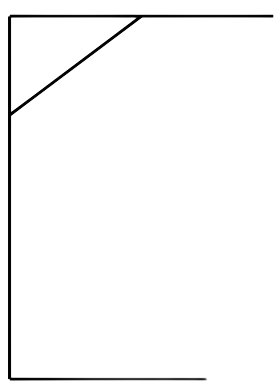
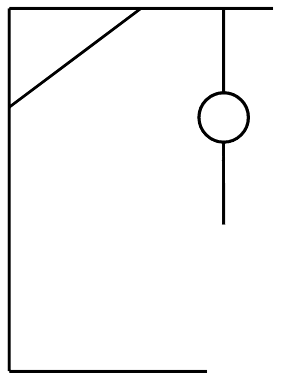
hang man display on error

Changed region(s): [[0.0, 0.0, 0.9749, 0.9816]]

diff --git a/bin/css/applicationLight16.css b/bin/css/applicationLight16.css
@@ -1,0 +1,15 @@
+Label{
+	-fx-font-size : 16px
+}
+GridPane{
+	-fx-background-color : #E8F9FD
+}
+VBox{
+	-fx-background-color : #E8F9FD
+}
+DialogPane{
+	-fx-background-color : #E8F9FD
+}
+Button{
+	-fx-background-color : #99CCFF
+}

diff --git a/src/mvc/controleur/ControleurIntro.java b/src/mvc/controleur/ControleurIntro.java
@@ -65,16 +65,12 @@ public class ControleurIntro {
 		ControleurJeu contJeu = new ControleurJeu(jeu, option);
 		loader.setController(contJeu);
 
-		try {
-			VBox jeu = loader.load();
-			jeu.getChildren().add(0, toolbar.load());
-			Stage stage = (Stage) ((Node) event.getSource()).getScene().getWindow();
-			Scene scene = new Scene(jeu);
-			stage.setScene(scene);
-			scene.getStylesheets().add(getClass().getResource("/css/applicationLight16.css").toExternalForm());
-		} catch (IOException e) {
-			System.err.println(e.getMessage());
-		}
+		VBox jeu = loader.load();
+		jeu.getChildren().add(0, toolbar.load());
+		Stage stage = (Stage) ((Node) event.getSource()).getScene().getWindow();
+		Scene scene = new Scene(jeu);
+		stage.setScene(scene);
+		scene.getStylesheets().add(getClass().getResource("/css/applicationLight16.css").toExternalForm());
 	}
 
 	@FXML
@@ -82,7 +78,7 @@ public class ControleurIntro {
 		Dialog<ButtonType> dialog = new Dialog<>();
 
 		dialog.setTitle("Choix");
-		dialog.setHeaderText("Param�tres");
+		dialog.setHeaderText("Parametres");
 		FXMLLoader loader = new FXMLLoader(getClass().getResource("/mvc/vue/parametres.fxml"));
 
 		ControleurParametres contParametres = new ControleurParametres(jeu, option);
@@ -90,10 +86,11 @@ public class ControleurIntro {
 
 		GridPane grille = loader.load();
 		dialog.getDialogPane().setContent(grille);
-		dialog.getDialogPane().getStylesheets().add(getClass().getResource("/css/applicationLight16.css").toExternalForm());
-	
+		dialog.getDialogPane().getStylesheets()
+				.add(getClass().getResource("/css/applicationLight16.css").toExternalForm());
+
 		ButtonType buttonTypeValider = new ButtonType("Valider", ButtonData.LEFT);
-		ButtonType buttonTypeRes = new ButtonType("Restaurer valeurs\npar d�faut", ButtonData.LEFT);
+		ButtonType buttonTypeRes = new ButtonType("Restaurer valeurs\npar defaut", ButtonData.LEFT);
 		ButtonType buttonTypeAnnuler = new ButtonType("Annuler", ButtonData.CANCEL_CLOSE);
 
 		dialog.getDialogPane().getButtonTypes().addAll(buttonTypeValider, buttonTypeRes, buttonTypeAnnuler);
@@ -120,17 +117,18 @@ public class ControleurIntro {
 	}
 
 	public void ouvrirAide() {
-		String info = "R�gles :\n\n"
-				+ "Pour gagner, le joueur doit trouver le mot cach� en proposant diff�rentes lettres.\n"
+		String info = "Regles :\n\n"
+				+ "Pour gagner, le joueur doit trouver le mot cache en proposant differentes lettres.\n"
 				+ "Si le joueur se trompe plus de 5 fois alors, la partie est perdue." + "\n\nAide au jeu :\n\n"
-				+ "Pour s�lectionner une lettre, cliquez avec le clique gauche de votre souris sur les lettres du clavier visuel.\n"
-				+ "Vous pouvez �galement taper avec le clavier pour s�lectionner les lettres du clavier virtuel"
+				+ "Pour selectionner une lettre, cliquez avec le clique gauche de votre souris sur les lettres du clavier visuel.\n"
+				+ "Vous pouvez egalement taper avec le clavier pour selectionner les lettres du clavier virtuel"
 				+ "\n\nSupport :\n\n" + "Tel : 06 42 86 57 38\n" + "e-mail : Antoine.scanu1@gmail.com";
 
 		Alert aide = new Alert(AlertType.INFORMATION);
-		aide.setHeaderText("R�gles");
+		aide.setHeaderText("Regles");
 		aide.setContentText(info);
-		aide.getDialogPane().getStylesheets().add(getClass().getResource("/css/applicationLight16.css").toExternalForm());
+		aide.getDialogPane().getStylesheets()
+				.add(getClass().getResource("/css/applicationLight16.css").toExternalForm());
 		aide.setHeight(900);
 		aide.show();
 	}
@@ -144,7 +142,7 @@ public class ControleurIntro {
 		Dialog<ButtonType> dialog = new Dialog<>();
 
 		dialog.setTitle("Choix");
-		dialog.setHeaderText("Pr�f�rences");
+		dialog.setHeaderText("Preferences");
 		FXMLLoader loader = new FXMLLoader(getClass().getResource("/mvc/vue/preferences.fxml"));
 
 		ControleurPreferences contPreferences = new ControleurPreferences(jeu, option);
@@ -152,10 +150,11 @@ public class ControleurIntro {
 
 		GridPane grille = loader.load();
 		dialog.getDialogPane().setContent(grille);
-		dialog.getDialogPane().getStylesheets().add(getClass().getResource("/css/applicationLight16.css").toExternalForm());
+		dialog.getDialogPane().getStylesheets()
+				.add(getClass().getResource("/css/applicationLight16.css").toExternalForm());
 
 		ButtonType buttonTypeValider = new ButtonType("Valider", ButtonData.LEFT);
-		ButtonType buttonTypeRes = new ButtonType("Restaurer valeurs\npar d�faut", ButtonData.LEFT);
+		ButtonType buttonTypeRes = new ButtonType("Restaurer valeurs\npar defaut", ButtonData.LEFT);
 		ButtonType buttonTypeAnnuler = new ButtonType("Annuler", ButtonData.CANCEL_CLOSE);
 
 		dialog.getDialogPane().getButtonTypes().addAll(buttonTypeValider, buttonTypeRes, buttonTypeAnnuler);

diff --git a/src/mvc/controleur/ControleurParametres.java b/src/mvc/controleur/ControleurParametres.java
@@ -33,7 +33,7 @@ public class ControleurParametres {
 		radioBtnCinq.setToggleGroup(groupeErreurMax);
 		radioBtnDix.setToggleGroup(groupeErreurMax);
 
-		if (jeu.getNbMaxErreurs() == 4)
+		if (jeu.getNbMaxErreurs() == 5)
 			groupeErreurMax.selectToggle(radioBtnCinq);
 		else
 			groupeErreurMax.selectToggle(radioBtnDix);
